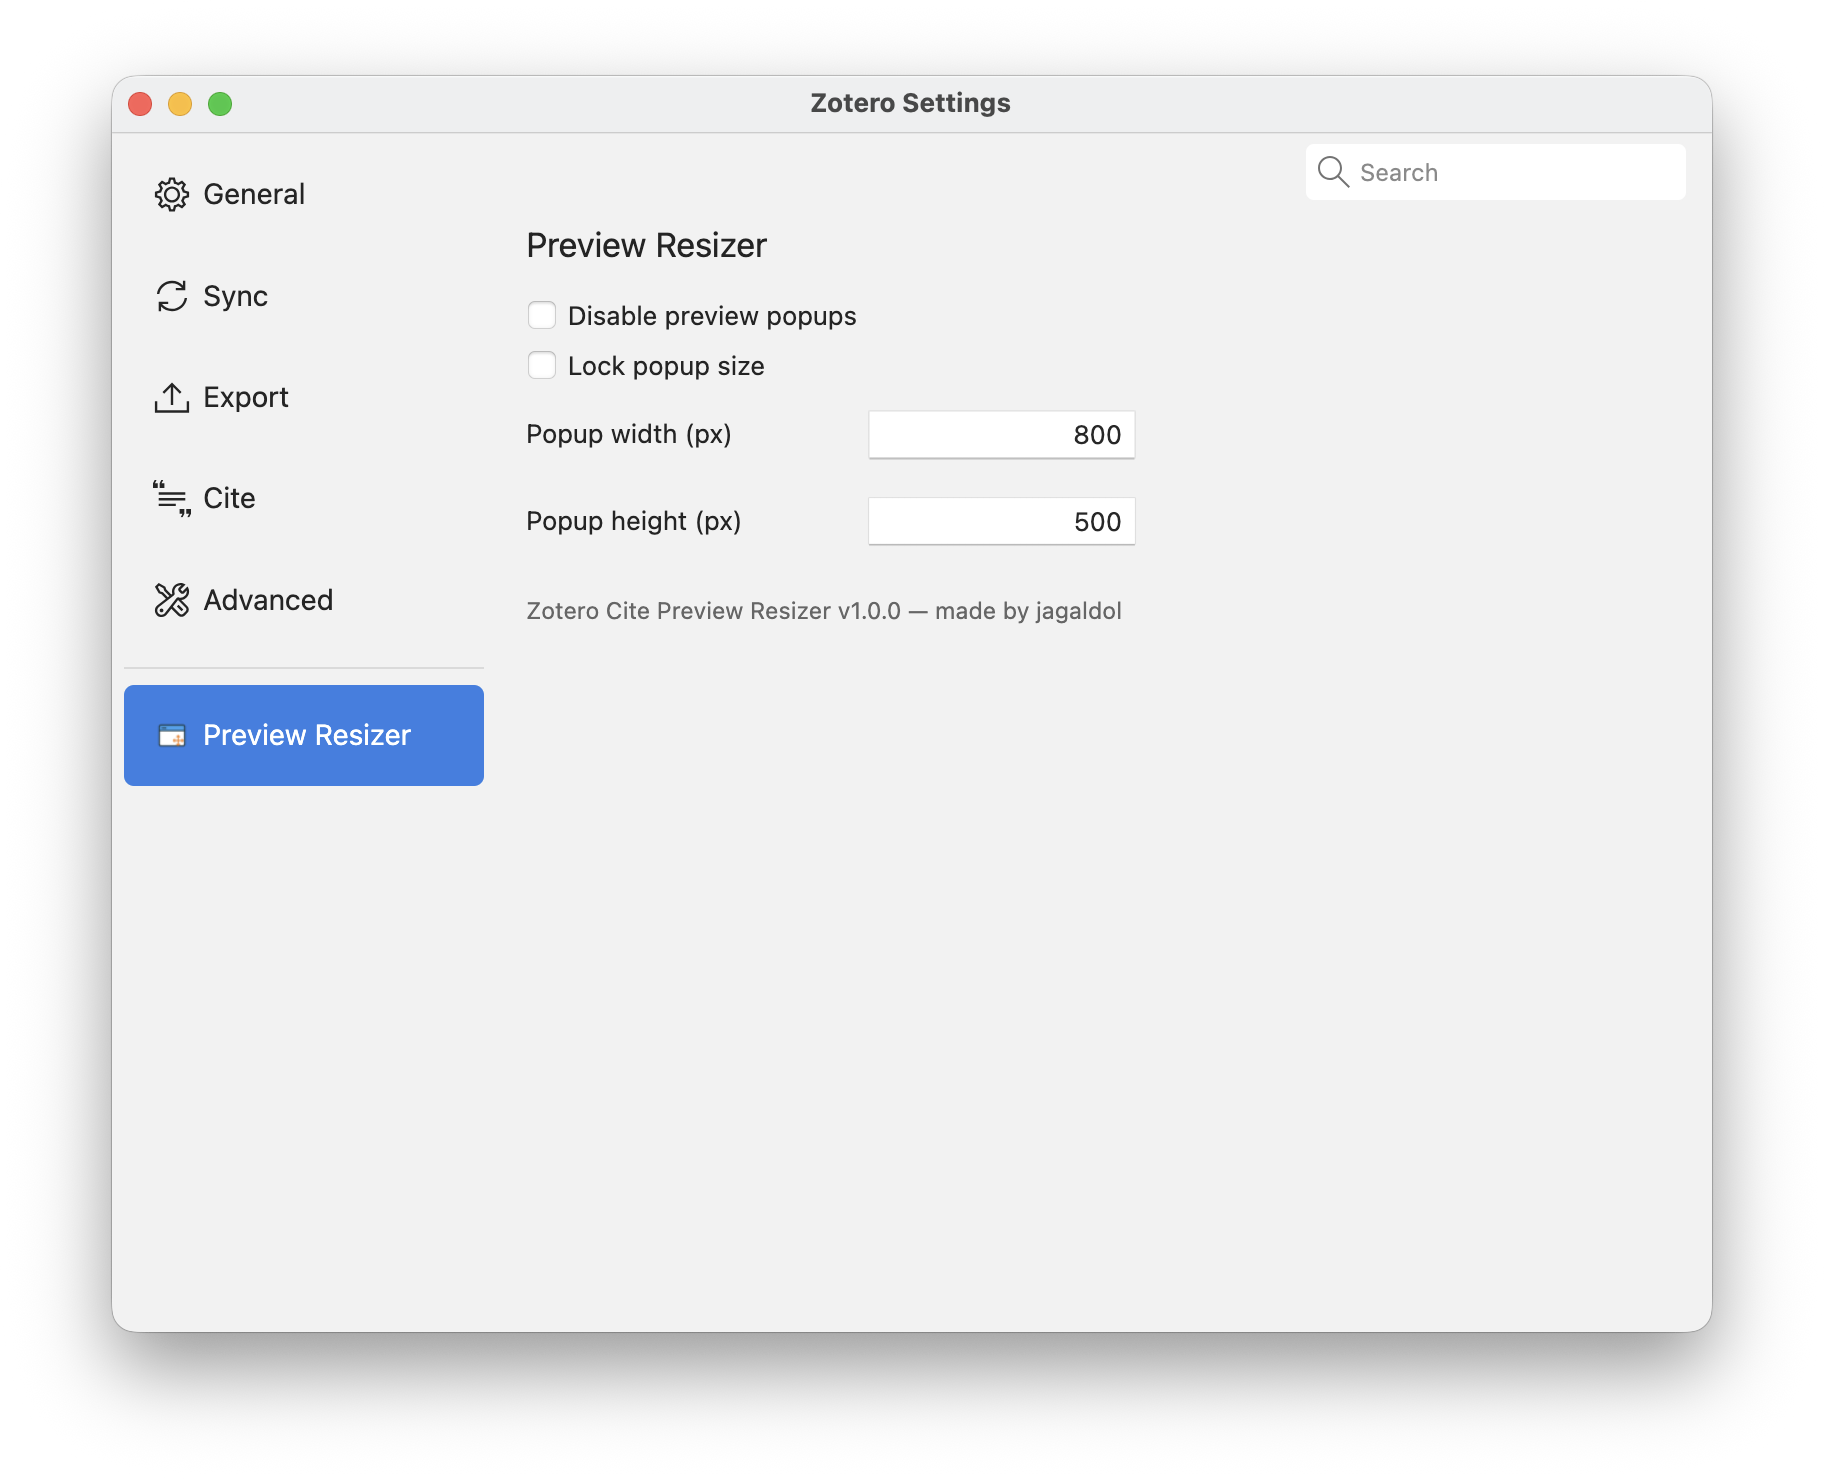
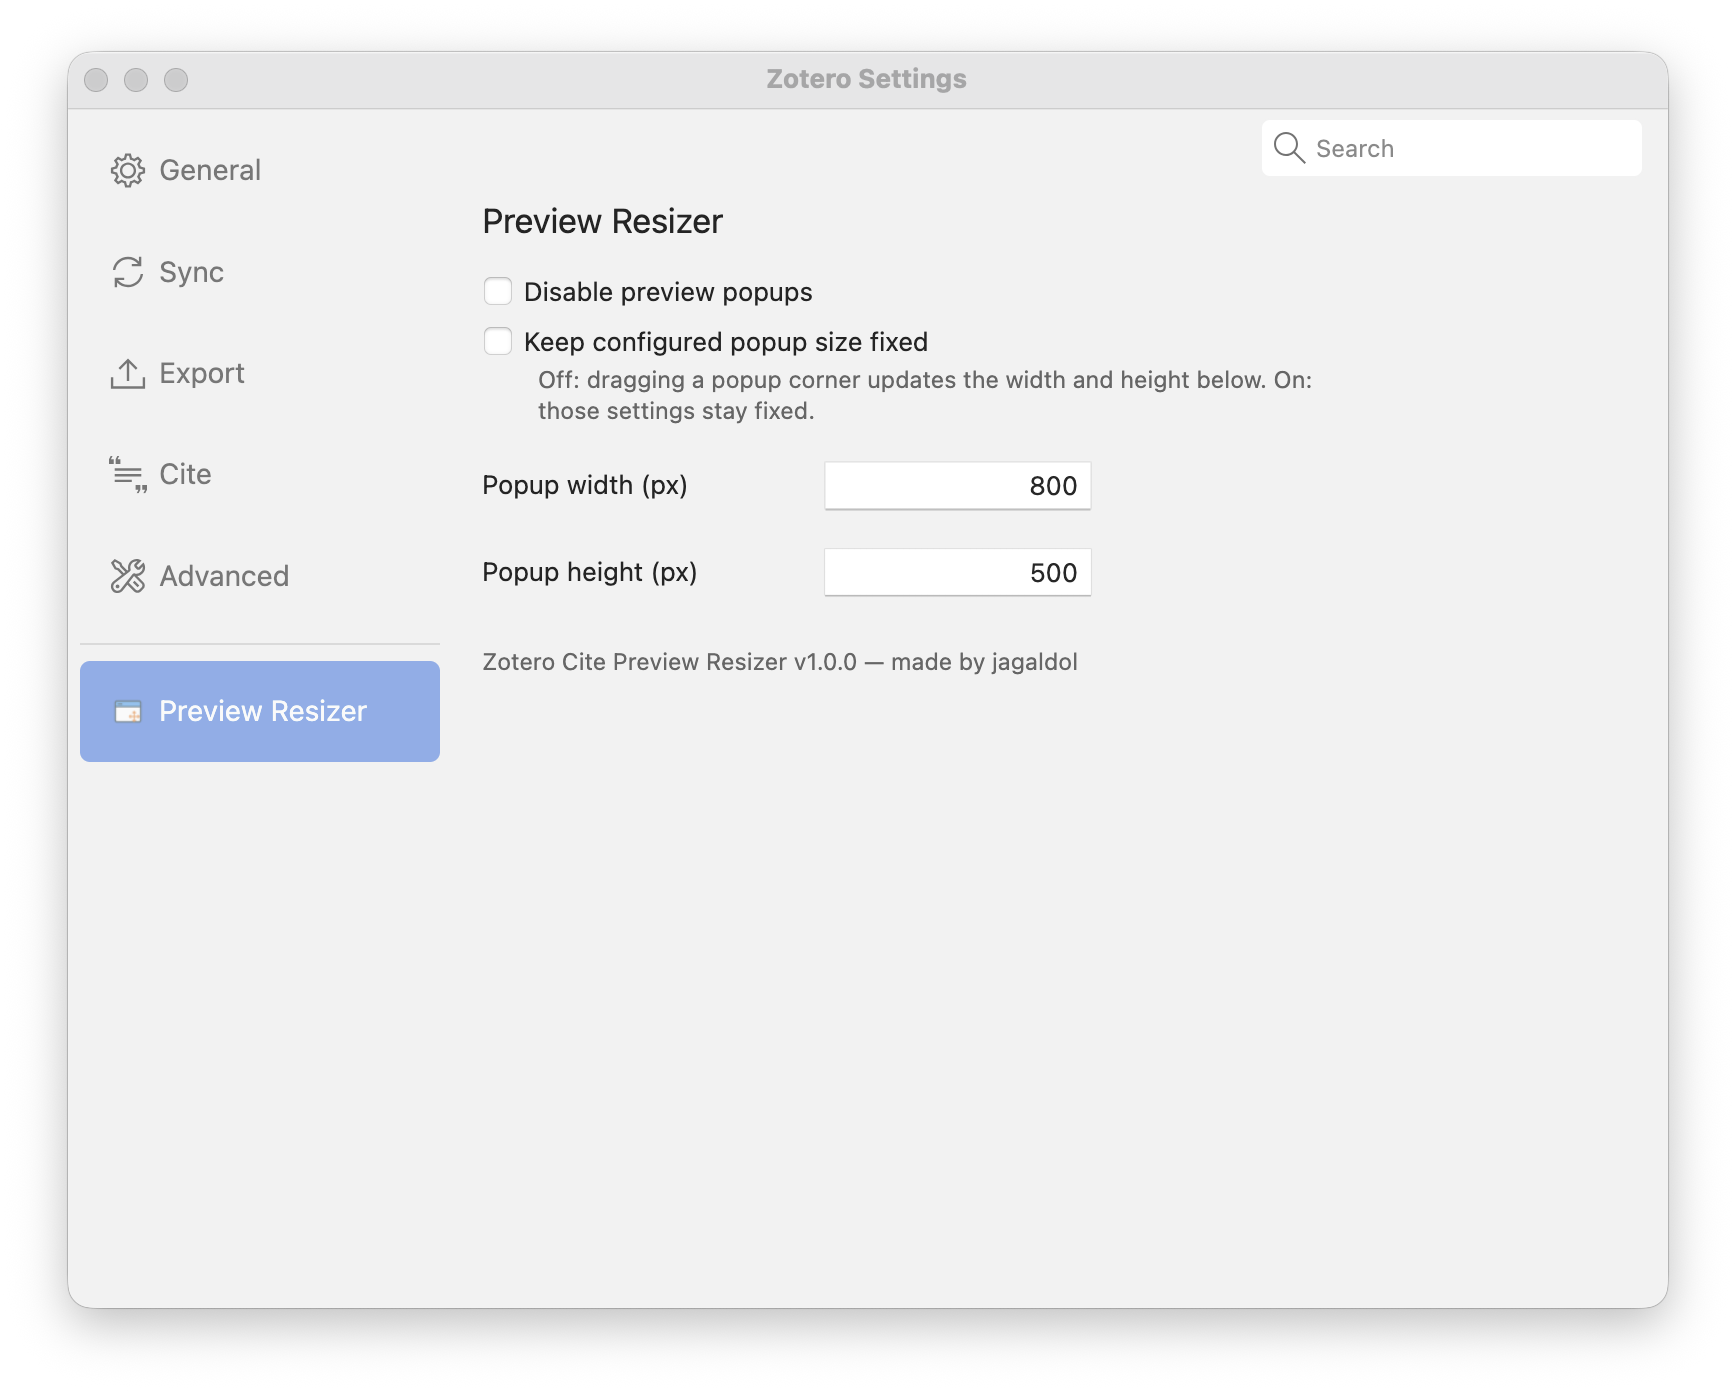
ux: clarify popup size preferences
Rename the fixed-size preference to describe its behavior, add tooltip and inline help text, document automatic size persistence, and disable size controls when previews are disabled.

diff --git a/addon/content/preferences.js b/addon/content/preferences.js
@@ -1,0 +1,72 @@
+/* global document, MutationObserver */
+
+(() => {
+  const ADDON_REF = "zoterocitepreviewresizer";
+  const ROOT_ID = `${ADDON_REF}-prefs`;
+  const DISABLE_PREVIEW_ID = `zotero-prefpane-${ADDON_REF}-disablePreview`;
+  const RELATED_CONTROL_IDS = [
+    `zotero-prefpane-${ADDON_REF}-lockPopupSize`,
+    `zotero-prefpane-${ADDON_REF}-popupWidth`,
+    `zotero-prefpane-${ADDON_REF}-popupHeight`,
+  ];
+
+  function init() {
+    const root = document.getElementById(ROOT_ID);
+    if (!root || root.dataset.resizePrefsBound === "true") {
+      return Boolean(root);
+    }
+
+    const disablePreview = document.getElementById(DISABLE_PREVIEW_ID);
+    if (!disablePreview) {
+      return false;
+    }
+
+    root.dataset.resizePrefsBound = "true";
+
+    const updateRelatedControls = () => {
+      const disabled = Boolean(disablePreview.checked);
+      root.toggleAttribute("data-preview-disabled", disabled);
+
+      for (const id of RELATED_CONTROL_IDS) {
+        const control = document.getElementById(id);
+        if (!control) {
+          continue;
+        }
+
+        control.disabled = disabled;
+        if (disabled) {
+          control.setAttribute("disabled", "true");
+        } else {
+          control.removeAttribute("disabled");
+        }
+
+        const row = control.closest(".size-pref") || control;
+        row.toggleAttribute("data-disabled-by-preview", disabled);
+      }
+    };
+
+    disablePreview.addEventListener("command", updateRelatedControls);
+    disablePreview.addEventListener("change", updateRelatedControls);
+    disablePreview.addEventListener(
+      "syncfrompreference",
+      updateRelatedControls,
+    );
+    disablePreview.addEventListener("synctopreference", updateRelatedControls);
+    updateRelatedControls();
+    return true;
+  }
+
+  if (init()) {
+    return;
+  }
+
+  const observer = new MutationObserver(() => {
+    if (init()) {
+      observer.disconnect();
+    }
+  });
+  observer.observe(document.documentElement, {
+    childList: true,
+    subtree: true,
+  });
+})();

diff --git a/src/hooks.ts b/src/hooks.ts
@@ -18,6 +18,7 @@ async function onStartup() {
   Zotero.PreferencePanes.register({
     pluginID: addon.data.config.addonID,
     src: rootURI + "content/preferences.xhtml",
+    scripts: [rootURI + "content/preferences.js"],
     // Use localized title for the pane label
     label: getString("pref-title"),
     image: `chrome://${addon.data.config.addonRef}/content/icons/favicon.png`,

diff --git a/typings/i10n.d.ts b/typings/i10n.d.ts
@@ -6,6 +6,7 @@ export type FluentMessageId =
   | 'pref-disable-preview'
   | 'pref-footer'
   | 'pref-lock-popup-size'
+  | 'pref-lock-popup-size-description'
   | 'pref-popup-height'
   | 'pref-popup-width'
   | 'pref-title';

diff --git a/README.md b/README.md
@@ -9,10 +9,10 @@ Resize the hover preview that appears when you inspect citations inside the Zote
 ## Features
 
 - Enlarged cite/annotation preview popups (default 800 x 500 px) so reference pages and figures are legible at a glance.
-- Drag-resizable preview window that can remember manual sizes, with sensible min/max limits and scrollbars for oversized content.
+- Drag-resizable preview window that saves manual sizes as the new default, with sensible min/max limits and scrollbars for oversized content.
 - Option to hide preview popups entirely.
 - Applies to every Zotero Reader tab (PDF, EPUB, snapshots) and updates automatically when new reader windows open.
-- Preferences pane to hide previews, lock the configured size, or set your own default width and height.
+- Preferences pane to hide previews, keep the configured size fixed, or set your own default width and height.
 - Media-aware styling that keeps embedded images, figures, and SVGs stretched to the popup width without distortion.
 - English and Korean localization out of the box.
 
@@ -37,21 +37,21 @@ The add-on targets Zotero 7 (Beta or newer). Earlier Zotero versions do not expo
 
 1. Open a PDF (or other reader-supported item) inside Zotero.
 2. Hover over an in-text citation, note link, or reference marker to display the preview popup.
-3. Drag the lower-right corner to resize; the popup stores the new size as the default unless popup size is locked.
-4. To force a fixed default, enable the lock preference described below.
+3. Drag the lower-right corner to resize. By default, the new popup size is saved back to the width and height preferences.
+4. To make manual resizing temporary, enable the fixed-size preference described below.
 
 ## Preferences
 
 Find the "Preview Resizer" pane under `Edit > Preferences` (Windows/Linux) or `Zotero > Preferences` (macOS).
 
-![Preview Resizer preference pane with disable preview, lock popup size, width, and height fields](assets/preferences.png)
+![Preview Resizer preference pane with disable preview, fixed-size, width, and height settings](assets/preferences.png)
 
+- **Disable preview popups:** Hide citation preview popups.
+- **Keep configured popup size fixed:** When off, dragging a popup corner updates the width and height settings automatically. When on, manual resizing only affects the current popup.
 - **Popup width (px):** Starting width for every preview popup.
 - **Popup height (px):** Starting height for every preview popup.
-- **Disable preview popups:** Hide citation preview popups.
-- **Lock popup size:** Keep the configured width and height from being overwritten by manual drag-resizing.
 
-Changes apply to open reader tabs and future previews. You can still resize individual popups on the fly with drag-and-drop.
+Changes apply to open reader tabs and future previews. When preview popups are disabled, the size controls are disabled as well because they no longer affect the reader.
 
 ## Development
 